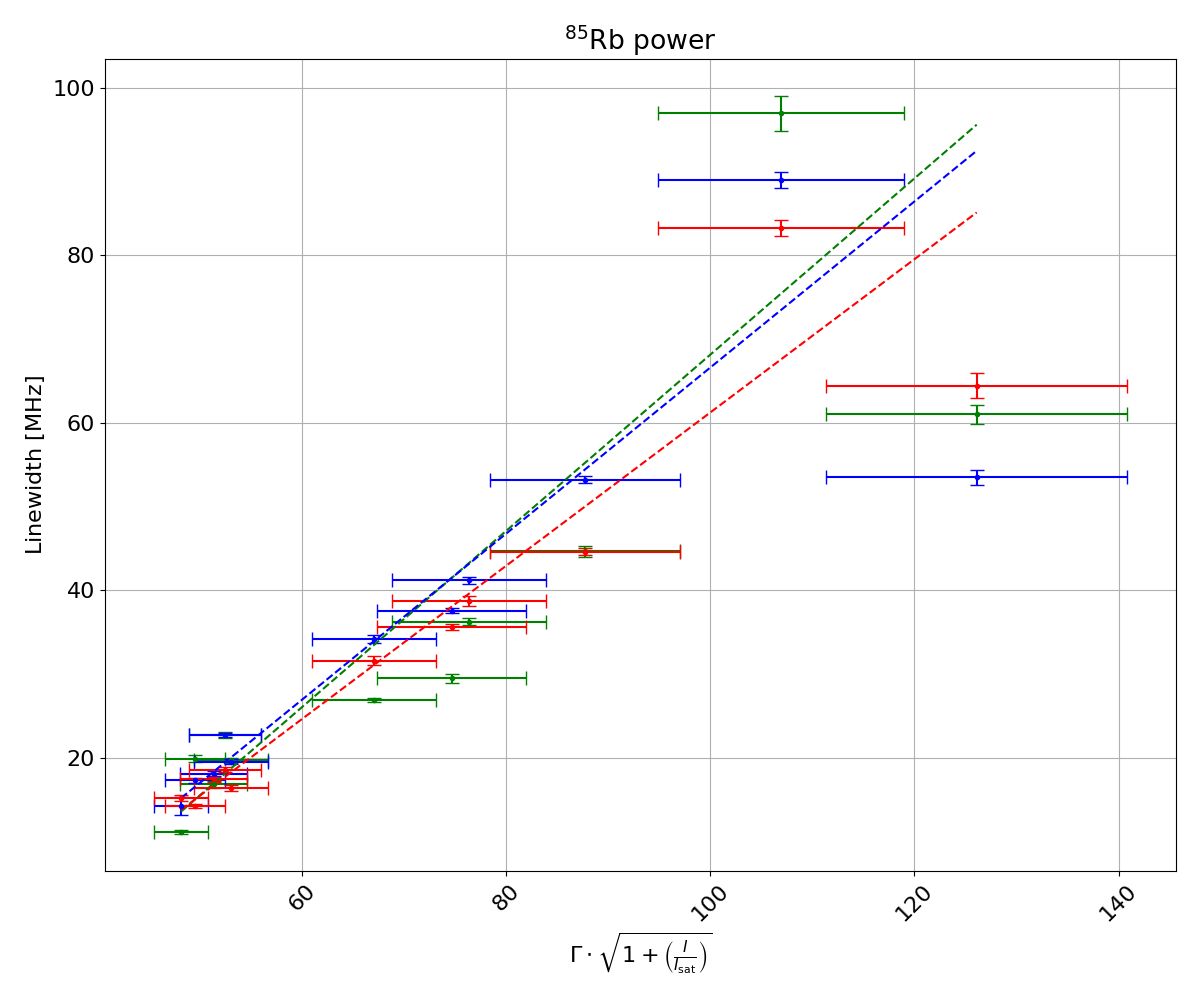
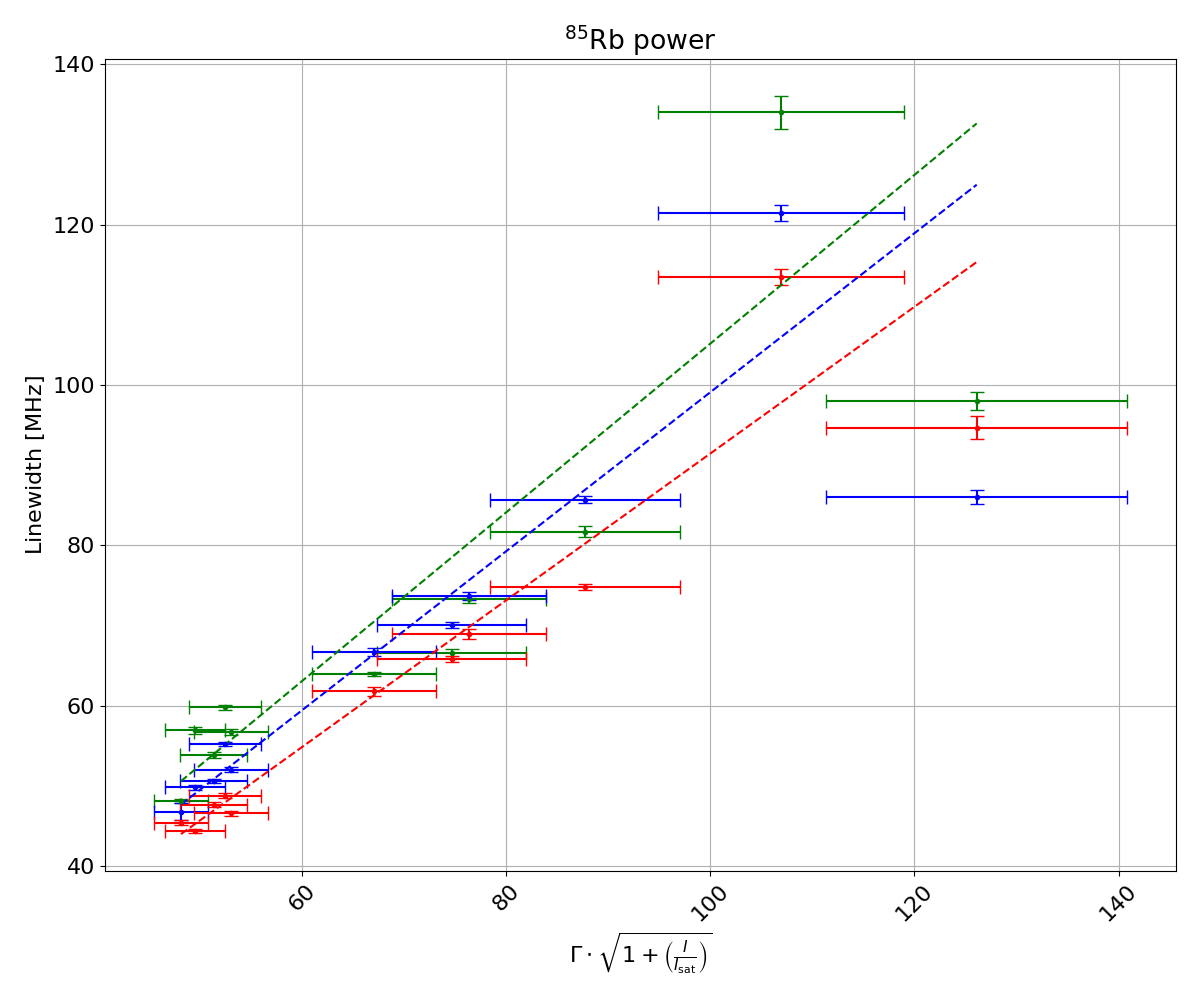
adding intercept

diff --git a/linewidth_uncertainties.py b/linewidth_uncertainties.py
@@ -157,18 +157,18 @@ coeff12, dcoeff12 = lfn.plot_ufloat_fit(int87_x, peaks_12, lfn.lin_model, x_labe
 
 plt.figure(figsize=(12, 10))
 plt.rcParams.update({'font.size': 16})
-plt.errorbar(nominal_values(int87_x), nominal_values(peaks_11), xerr=std_devs(int87_x), yerr=std_devs(peaks_11), fmt='.', color='green', label=f'F=1$\\to$F\'=1 - ({coeff11[1]:.3g} ± {dcoeff11[1]:.3g}) V', capsize=5)
-plt.errorbar(nominal_values(int87_x), nominal_values(peaks_12), xerr=std_devs(int87_x), yerr=std_devs(peaks_12), fmt='.', color='blue', label=f'F=1$\\to$F\'=2 - ({coeff12[1]:.3g} ± {dcoeff12[1]:.3g}) V', capsize=5)
-plt.errorbar(nominal_values(intcross87_x), nominal_values(peaks_cross87), xerr=std_devs(intcross87_x), yerr=std_devs(peaks_cross87), fmt='.', color='red', label=f'Crosspeak - ({coeffcross87[1]:.3g} ± {dcoeffcross85[1]:.3g}) V', capsize=5)
+plt.errorbar(nominal_values(int87_x), nominal_values(peaks_11)-coeff11[1], xerr=std_devs(int87_x), yerr=std_devs(peaks_11), fmt='.', color='green', label=f'F=1$\\to$F\'=1 - ({coeff11[1]:.3g} ± {dcoeff11[1]:.3g}) V', capsize=5)
+plt.errorbar(nominal_values(int87_x), nominal_values(peaks_12)-coeff12[1], xerr=std_devs(int87_x), yerr=std_devs(peaks_12), fmt='.', color='blue', label=f'F=1$\\to$F\'=2 - ({coeff12[1]:.3g} ± {dcoeff12[1]:.3g}) V', capsize=5)
+plt.errorbar(nominal_values(intcross87_x), nominal_values(peaks_cross87)-coeffcross87[1], xerr=std_devs(intcross87_x), yerr=std_devs(peaks_cross87), fmt='.', color='red', label=f'Crosspeak - ({coeffcross87[1]:.3g} ± {dcoeffcross85[1]:.3g}) V', capsize=5)
 
 fitstr11 = f'y = ({coeff11[0]:.3g} ± {dcoeff11[0]:.3g}) * x'
 fitstr12 = f'y = ({coeff12[0]:.3g} ± {dcoeff12[0]:.3g}) * x'
 fitstrcross87 = f'y = ({coeffcross87[0]:.3g} ± {dcoeffcross87[0]:.3g}) * x'
         
 x_fit = np.linspace(min(nominal_values(int87_x)), max(nominal_values(int87_x)), 100)
-y_fit11 = lfn.lin_model(coeff11, x_fit)
-y_fit12 = lfn.lin_model(coeff12, x_fit)
-y_fitcross87 = lfn.lin_model(coeffcross87, x_fit)
+y_fit11 = coeff11[0] * x_fit
+y_fit12 = coeff12[0] * x_fit
+y_fitcross87 = coeffcross87[0] * x_fit
 plt.plot(x_fit, y_fit11, label=fitstr11, color='green', linestyle='--')
 plt.plot(x_fit, y_fit12, label=fitstr12, color='blue', linestyle='--')
 plt.plot(x_fit, y_fitcross87, label=fitstrcross87, color='red', linestyle='--')
@@ -194,18 +194,18 @@ fig_legend.savefig('data_linewidth/figures_unc/legend_87.png', bbox_inches='tigh
 
 plt.figure(figsize=(12, 10))
 plt.rcParams.update({'font.size': 16})
-plt.errorbar(nominal_values(int85_x), nominal_values(peaks_22), xerr=std_devs(int85_x), yerr=std_devs(peaks_22), fmt='.', color='green', label=f'F=2$\\to$F\'=2 - ({coeff22[1]:.3g} ± {dcoeff22[1]:.3g}) V', capsize=5)
-plt.errorbar(nominal_values(int85_x), nominal_values(peaks_23), xerr=std_devs(int85_x), yerr=std_devs(peaks_23), fmt='.', color='blue', label=f'F=2$\\to$F\'=3 - ({coeff23[1]:.3g} ± {dcoeff23[1]:.3g}) V', capsize=5)
-plt.errorbar(nominal_values(intcross85_x), nominal_values(peaks_cross85), xerr=std_devs(intcross85_x), yerr=std_devs(peaks_cross85), fmt='.', color='red', label=f'Crosspeak - ({coeffcross85[1]:.3g} ± {dcoeffcross85[1]:.3g}) V', capsize=5)
+plt.errorbar(nominal_values(int85_x), nominal_values(peaks_22)-coeff22[1], xerr=std_devs(int85_x), yerr=std_devs(peaks_22), fmt='.', color='green', label=f'F=2$\\to$F\'=2 - ({coeff22[1]:.3g} ± {dcoeff22[1]:.3g}) V', capsize=5)
+plt.errorbar(nominal_values(int85_x), nominal_values(peaks_23)-coeff23[1], xerr=std_devs(int85_x), yerr=std_devs(peaks_23), fmt='.', color='blue', label=f'F=2$\\to$F\'=3 - ({coeff23[1]:.3g} ± {dcoeff23[1]:.3g}) V', capsize=5)
+plt.errorbar(nominal_values(intcross85_x), nominal_values(peaks_cross85)-coeffcross85[1], xerr=std_devs(intcross85_x), yerr=std_devs(peaks_cross85), fmt='.', color='red', label=f'Crosspeak - ({coeffcross85[1]:.3g} ± {dcoeffcross85[1]:.3g}) V', capsize=5)
 
 fitstr22 = f'y = ({coeff22[0]:.3g} ± {dcoeff22[0]:.3g}) * x'
 fitstr23 = f'y = ({coeff23[0]:.3g} ± {dcoeff23[0]:.3g}) * x'
 fitstrcross85 = f'y = ({coeffcross85[0]:.3g} ± {dcoeffcross85[0]:.3g}) * x'
         
 x_fit = np.linspace(min(nominal_values(int85_x)), max(nominal_values(int85_x)), 100)
-y_fit22 = lfn.lin_model(coeff22, x_fit)
-y_fit23 = lfn.lin_model(coeff23, x_fit)
-y_fitcross85 = lfn.lin_model(coeffcross85, x_fit)
+y_fit22 = coeff22[0] * x_fit
+y_fit23 = coeff23[0] * x_fit
+y_fitcross85 = coeffcross85[0] * x_fit
 plt.plot(x_fit, y_fit22, label=fitstr22, color='green', linestyle='--')
 plt.plot(x_fit, y_fit23, label=fitstr23, color='blue', linestyle='--')
 plt.plot(x_fit, y_fitcross85, label=fitstrcross85, color='red', linestyle='--')
